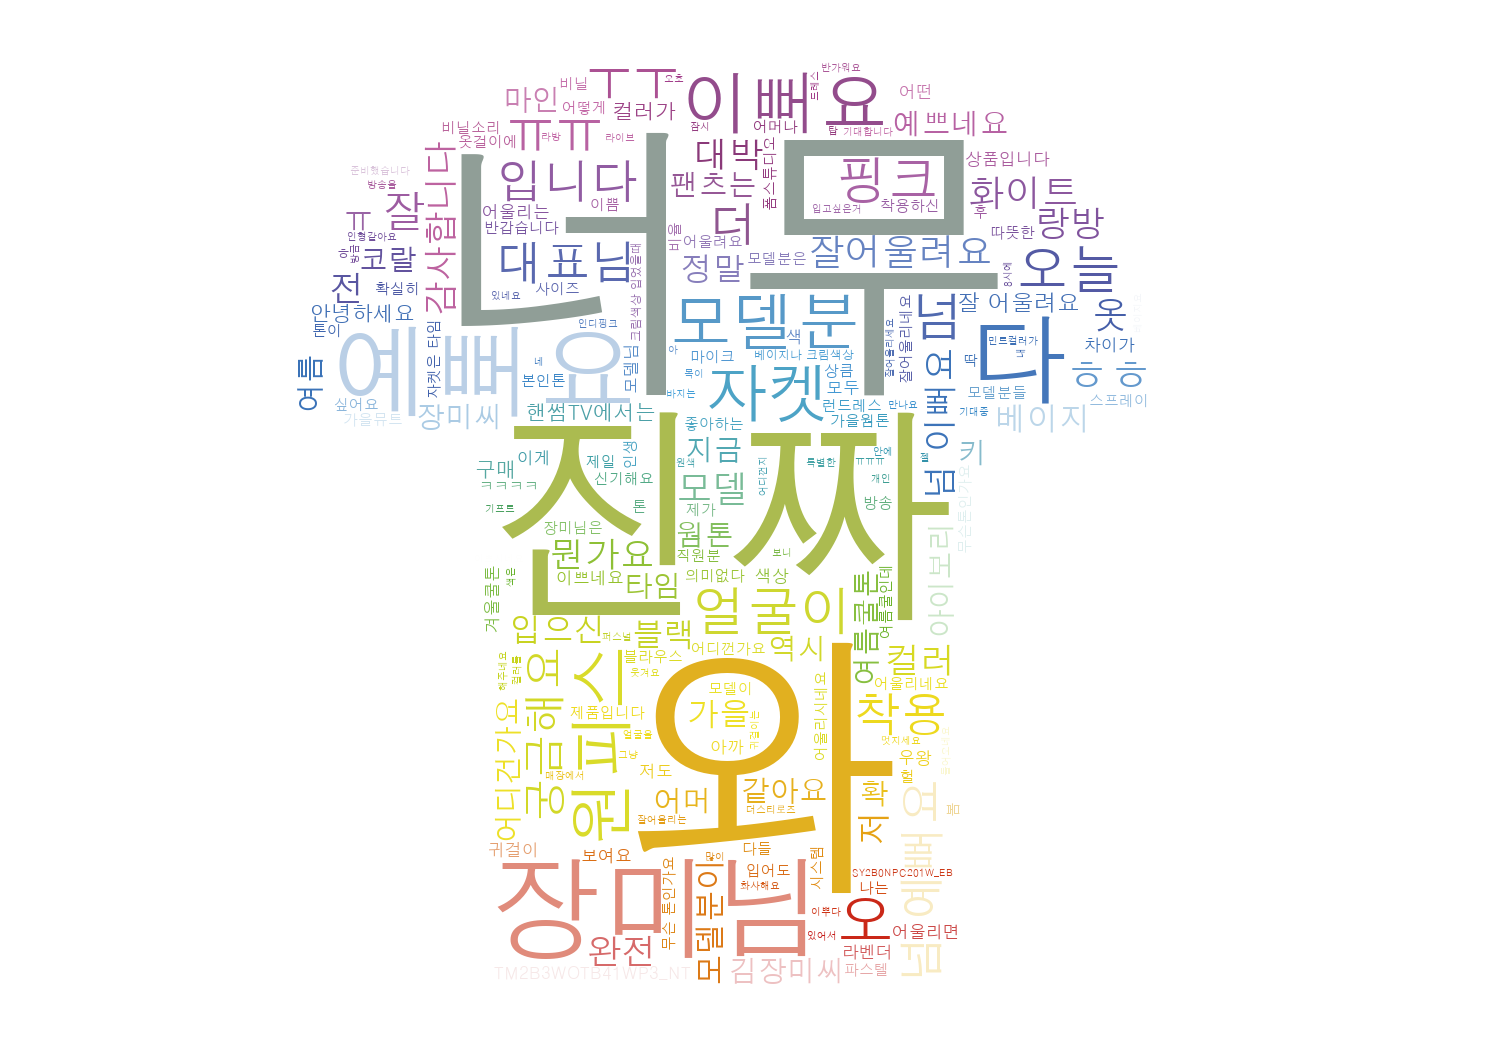
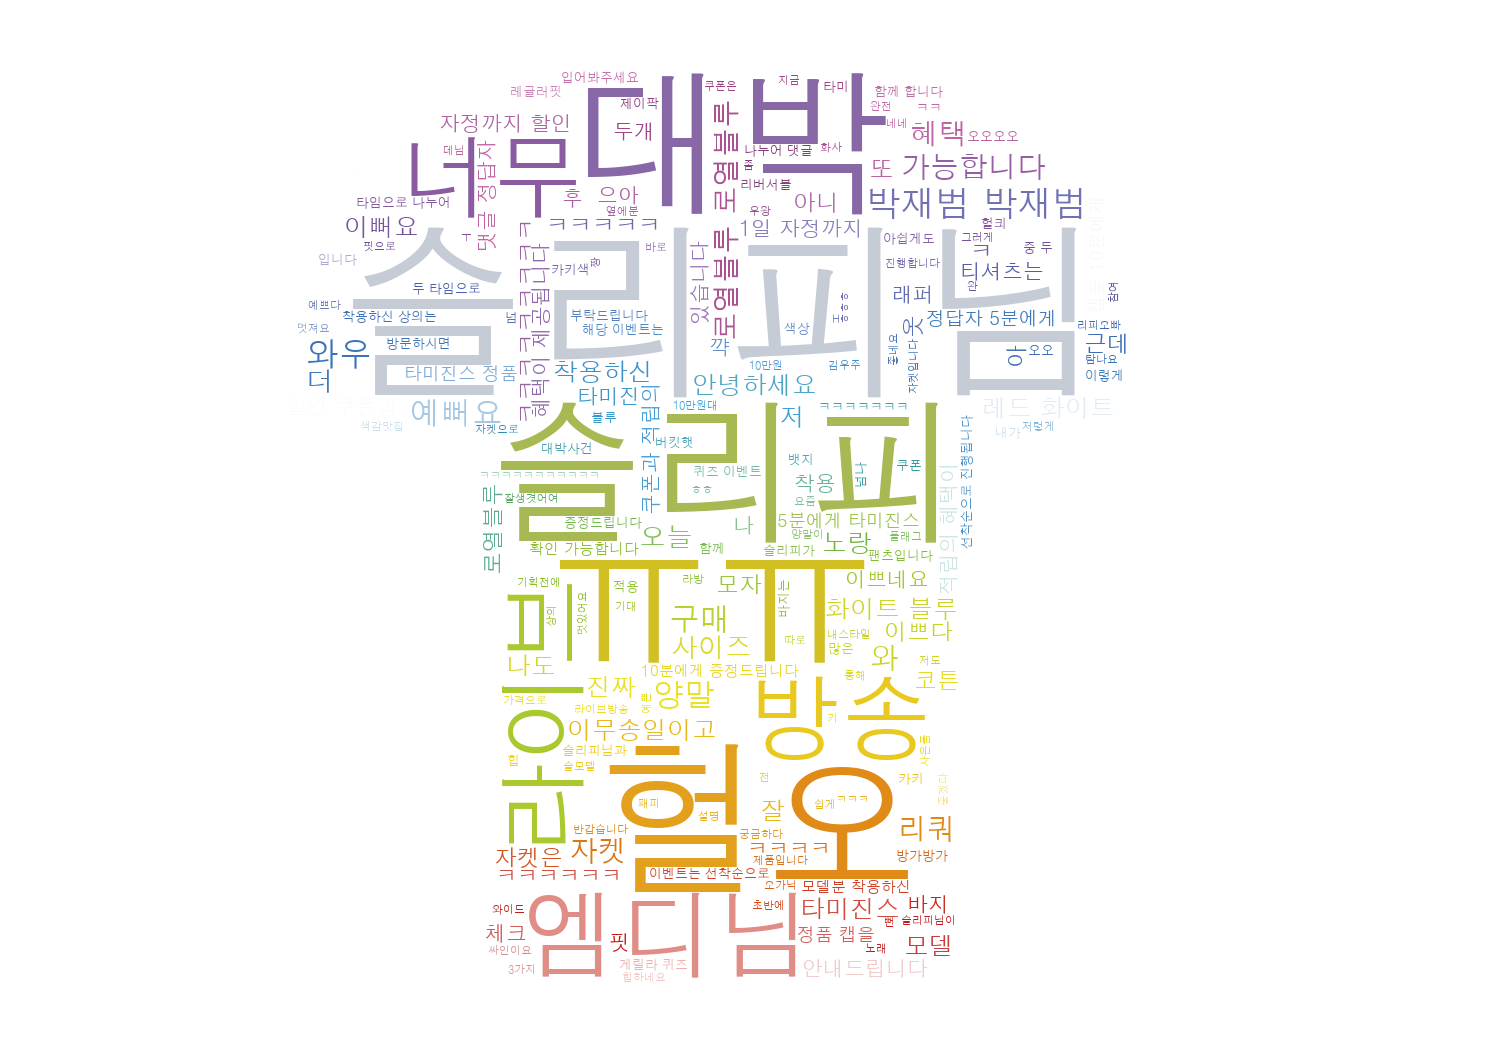
#210814 keyword 색상 넣음

Changed region(s): [[0.184, 0.0623, 0.7667, 0.9348]]

diff --git a/VitaminPlusChat/WEB/templates/keyword/keyword.html b/VitaminPlusChat/WEB/templates/keyword/keyword.html
@@ -1,13 +1,20 @@
 {% extends 'frontend/base.html' %}
 {% block content %}
 {% load static %}
-    <!--visual -->
-        <section class="visual">
-            <ul class = "wordcloud">
-                <li>가장 많이 나온 단어</li>
-                <li>채팅에 많이 나올 수록 단어의 크기가 커집니다.</li>
-                <img src="{% static 'img/wordcloud.png' %}" alt="">
-                <p>단어 구름</p>
-            </ul>
-        </section>
+<section class="contents">
+    <input type="hidden" id="timeLine" name="timeLine" value="{{ timeLine }}">
+    <input type="hidden" id="chat" name="chat" value="{{ chat }}">
+    <div class="video1 animate" data-animate = "motion">
+        <div class="inner">
+            <div class="title  animate" data-animate = "motion">
+                <div data-splitting class="en">KoNLPy-keyword</div>
+                <P>키워드분석</P>
+            </div>
+            <a href="#" class="more en">FIND OUT MORE</a>
+            <div class="videoBox">
+                <img src="{% static 'img/keyword.png' %}" alt="" style="width: 750px;">
+            </div>
+        </div>
+    </div>
+</section>
 {% endblock %}

diff --git a/VitaminPlusChat/static/css/keyword.css b/VitaminPlusChat/static/css/keyword.css
@@ -2,6 +2,6 @@
 @import url('https://fonts.googleapis.com/css?family=Bebas+Neue|Noto+Sans+KR&display=swap');
 
 /*section.visual*/
-.visual .wordcloud {width: 100%; height: 1000px; margin-top:90px; text-align: center; background: #4395e0;}
-.visual .wordcloud li {width: 100%; height: 30px; text-align: center; background: #fff}
-.visual .wordcloud img {width:400px; height: 200px; text-align: center;}
+.visual .wordcloud {width: 100%; height: 1000px; margin-top:1000px; text-align: center; background: #4395e0;}
+.visual .wordcloud li {width: 100%; height: 30px; margin-top:90px; text-align: center; background: #fff}
+.visual .wordcloud img {width:400px; height: 200px; text-align: center; margin-top: 300;}

diff --git a/VitaminPlusChat/WEB/templates/keyword/keyword.py b/VitaminPlusChat/WEB/templates/keyword/keyword.py
@@ -6,13 +6,13 @@ from wordcloud import ImageColorGenerator
 import matplotlib.pyplot as plt
 from PIL import Image
 import sys
-from konlpy import Okt
-from collections import Counter
+# from konlpy import Okt
+# from collections import Counter
 import warnings
 
 #엑셀 불러오기
 base_dir = 'VitaminPlusChat/static/excel'
-excel_file = 'excel.xlsx'
+excel_file = 'TommyJeans_2021_Test_data_2.xlsx'
 excel_dir = os.path.join(base_dir, excel_file)
 
 with warnings.catch_warnings(record=True):
@@ -23,7 +23,7 @@ with warnings.catch_warnings(record=True):
                                 dtype = {'second':str,
                                        'reg_dt':str,
                                        'message_type':str,
-                                       'message':str,
+                                       'chat':str,
                                        'user_cd':str,
                                        'user_group':str,
                                        'user_id':str,
@@ -38,19 +38,19 @@ with warnings.catch_warnings(record=True):
                                 engine="openpyxl")
 
 
-m_list = list(df_from_excel['이벤트 타입'])
+m_list = list(df_from_excel['chat'])
 text = " ".join(m_list)
 
-#명사 추출
-okt = Okt()
-noun = okt.nouns(text)
+# #명사 추출
+# okt = Okt()
+# noun = okt.nouns(text)
 
-for i,v in enumerate(noun):
-       if len(v) < 2:
-              noun.pop(i)
+# for i,v in enumerate(noun):
+#        if len(v) < 2:
+#               noun.pop(i)
 
-count = Counter(noun)
-noun_list = count.most_common(100)
+# count = Counter(noun)
+# noun_list = count.most_common(100)
 
 #wordcloud 그리기
 clothes_coloring = np.array(Image.open('VitaminPlusChat/static/img/clothes.png'))
@@ -58,10 +58,16 @@ image_colors = ImageColorGenerator(clothes_coloring)
 
 font_path = 'C:/Windows/Fonts/H2GTRM.ttf'
 #wordcloud = WordCloud(font_path=font_path, background_color='white').generate(text)
-wordcloud = WordCloud(font_path=font_path, background_color='white',max_font_size=100, mask=clothes_coloring)
-wordcloud.generate_from_frequencies(dict(noun_list))
+wordcloud = WordCloud(font_path=font_path, background_color='white',max_font_size=300, mask=clothes_coloring).generate(text)
+# wordcloud.generate_from_frequencies(dict(noun_list))
 wordcloud.recolor(color_func=image_colors)
 wordcloud.to_file('VitaminPlusChat/static/img/wordcloud.png')
+
+
+
+wordcloud = WordCloud(font_path=font_path, background_color='#FFD85B',max_font_size=300, mask=clothes_coloring).generate(text)
+wordcloud.recolor(color_func=image_colors)
+wordcloud.to_file('VitaminPlusChat/static/img/keyword.png')
 
 fig = plt.figure(figsize=(15,15))
 plt.imshow(wordcloud)
